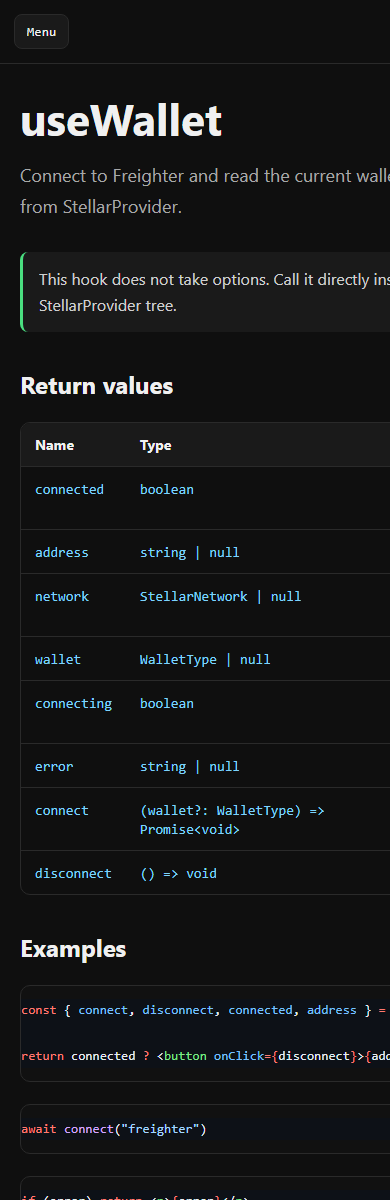
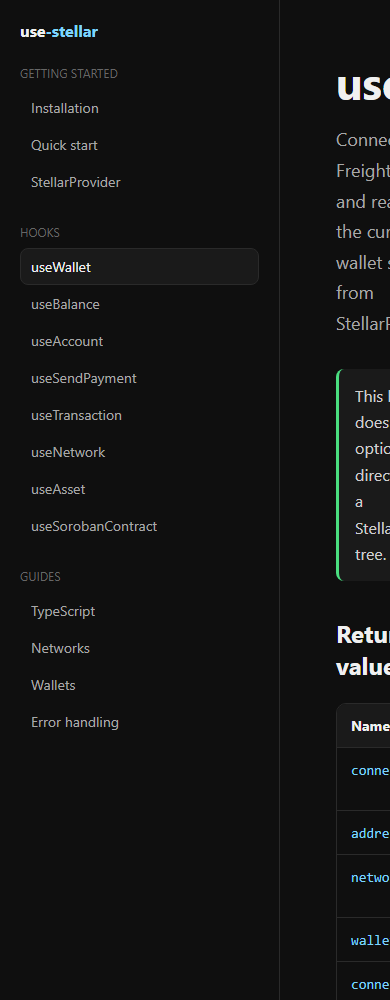
Close website acceptance gaps

diff --git a/packages/demo/app/components/HookCard.tsx b/packages/demo/app/components/HookCard.tsx
@@ -1,11 +1,44 @@
+import type { CSSProperties } from "react";
 import Link from "next/link";
+import { codeToHtml } from "shiki";
+import { CopyButton } from "./CopyButton";
 
-export function HookCard({ name, description, snippet, href }: { name: string; description: string; snippet: string; href: string }) {
+export async function HookCard({ name, description, snippet, href }: { name: string; description: string; snippet: string; href: string }) {
+  const html = await codeToHtml(snippet.trim(), {
+    lang: "tsx",
+    theme: "github-dark-default",
+  });
+
   return (
-    <Link href={href} style={{ display: "block", minHeight: 154, padding: 18, background: "#1a1a1a", border: "1px solid #2a2a2a", borderRadius: 10, textDecoration: "none", color: "inherit" }}>
-      <div style={{ color: "#7dd3fc", fontFamily: "monospace", fontSize: 15, marginBottom: 10 }}>{name}</div>
-      <p style={{ margin: "0 0 16px", color: "#a8a8a8", fontSize: 14, lineHeight: 1.55 }}>{description}</p>
-      <code style={{ display: "block", fontFamily: "monospace", color: "#f0f0f0", background: "#111111", border: "1px solid #2a2a2a", borderRadius: 8, padding: 10, fontSize: 12, overflow: "hidden", textOverflow: "ellipsis" }}>{snippet}</code>
-    </Link>
+    <article style={card}>
+      <Link href={href} style={{ textDecoration: "none", color: "inherit" }}>
+        <div style={{ color: "#7dd3fc", fontFamily: "monospace", fontSize: 15, marginBottom: 10 }}>{name}</div>
+        <p style={{ margin: "0 0 16px", color: "#a8a8a8", fontSize: 14, lineHeight: 1.55 }}>{description}</p>
+      </Link>
+      <div style={snippetFrame}>
+        <CopyButton text={snippet.trim()} />
+        <div
+          dangerouslySetInnerHTML={{ __html: html }}
+          style={{ fontFamily: "monospace", fontSize: 12, lineHeight: 1.55, overflowX: "auto" }}
+        />
+      </div>
+    </article>
   );
 }
+
+const card: CSSProperties = {
+  minHeight: 184,
+  padding: 18,
+  background: "#1a1a1a",
+  border: "1px solid #2a2a2a",
+  borderRadius: 10,
+  color: "inherit",
+};
+
+const snippetFrame: CSSProperties = {
+  position: "relative",
+  background: "#111111",
+  border: "1px solid #2a2a2a",
+  borderRadius: 8,
+  overflow: "hidden",
+};

diff --git a/packages/demo/app/docs/[[...slug]]/page.tsx b/packages/demo/app/docs/[[...slug]]/page.tsx
@@ -156,8 +156,13 @@ async function gettingStarted() {
 }
 
 async function hookPage(doc: typeof hookDocs[keyof typeof hookDocs]) {
+  const optionRows = doc.options.length > 0
+    ? doc.options.map(([name, type, def, description]) => ({ name, type, default: def, description }))
+    : [{ name: "options", type: "undefined", default: "none", description: "This hook does not take options. Call it directly inside a StellarProvider tree." }];
+
   return <Article title={doc.title} lead={doc.lead}>
-    {doc.options.length > 0 ? <><h2 style={h2}>Options</h2><ApiTable rows={doc.options.map(([name, type, def, description]) => ({ name, type, default: def, description }))} /></> : <Callout type="tip">This hook does not take options. Call it directly inside a StellarProvider tree.</Callout>}
+    <h2 style={h2}>Options</h2>
+    <ApiTable rows={optionRows} />
     <h2 style={h2}>Return values</h2>
     <ApiTable rows={doc.returns.map(([name, type, description]) => ({ name, type, description }))} />
     <h2 style={h2}>Examples</h2>

diff --git a/packages/demo/app/page.tsx b/packages/demo/app/page.tsx
@@ -103,7 +103,7 @@ export default async function Home() {
 
       <footer style={{ borderTop: "1px solid #2a2a2a", padding: "22px 24px", color: "#666666" }}>
         <div style={{ maxWidth: 1180, margin: "0 auto", display: "flex", gap: 18, flexWrap: "wrap", justifyContent: "space-between" }}>
-          <span>npm: use-stellar</span><a href="https://github.com/israelolrunfemi/use-stellar" style={footerLink}>GitHub</a><span>MIT license</span><span>Built on Stellar</span>
+          <a href="https://www.npmjs.com/package/use-stellar" style={footerLink} aria-label="use-stellar on npm"><img src="https://img.shields.io/npm/v/use-stellar?style=flat-square&color=7dd3fc&label=npm" alt="npm version" style={{ display: "block", height: 20 }} /></a><a href="https://github.com/israelolrunfemi/use-stellar" style={footerLink}>GitHub</a><span>MIT license</span><span>Built on Stellar</span>
         </div>
       </footer>
     </main>